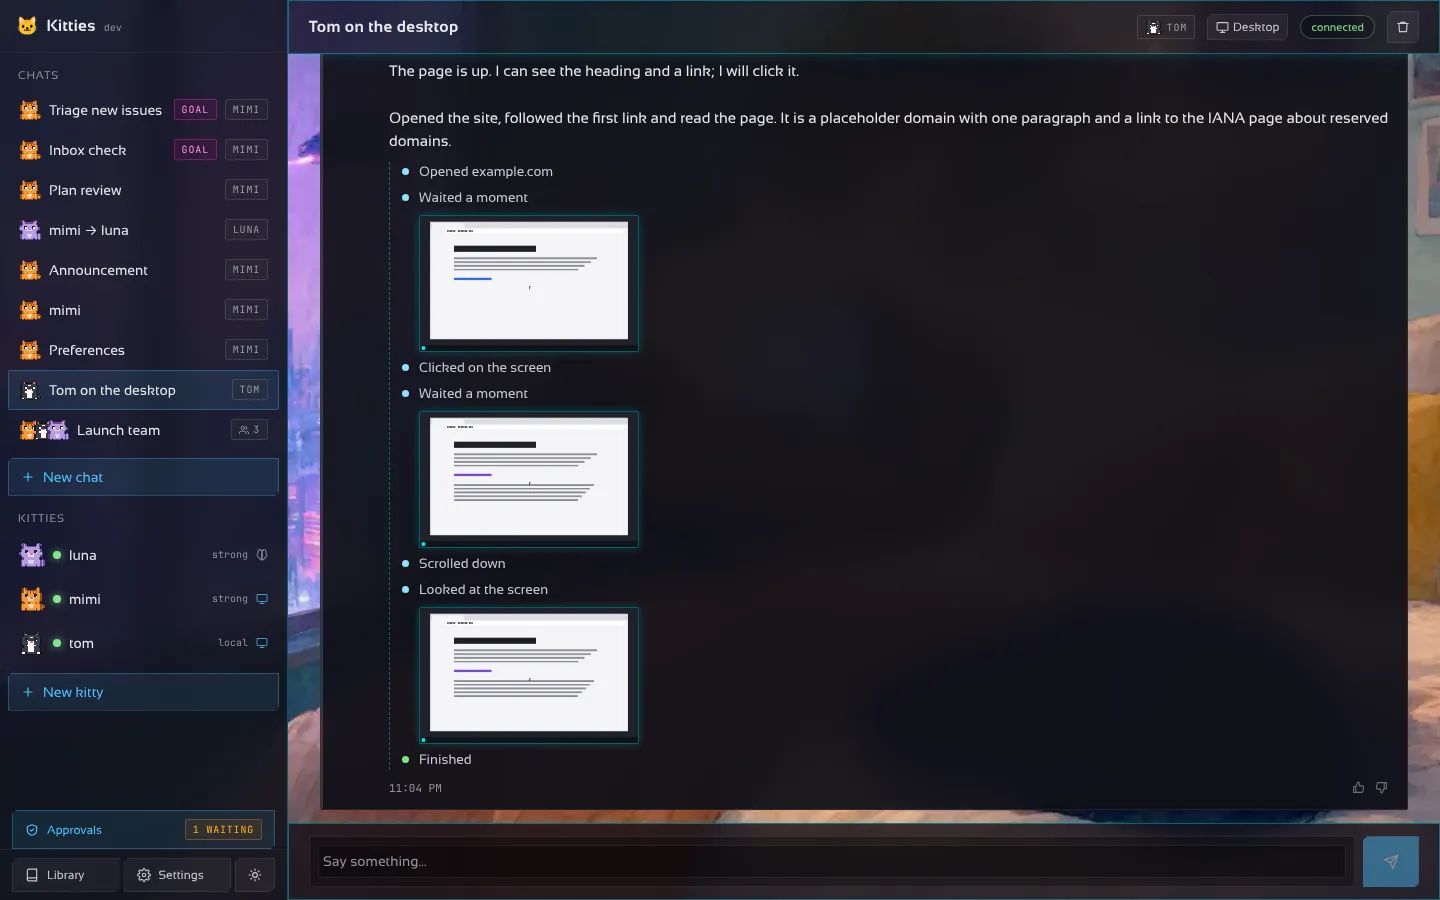
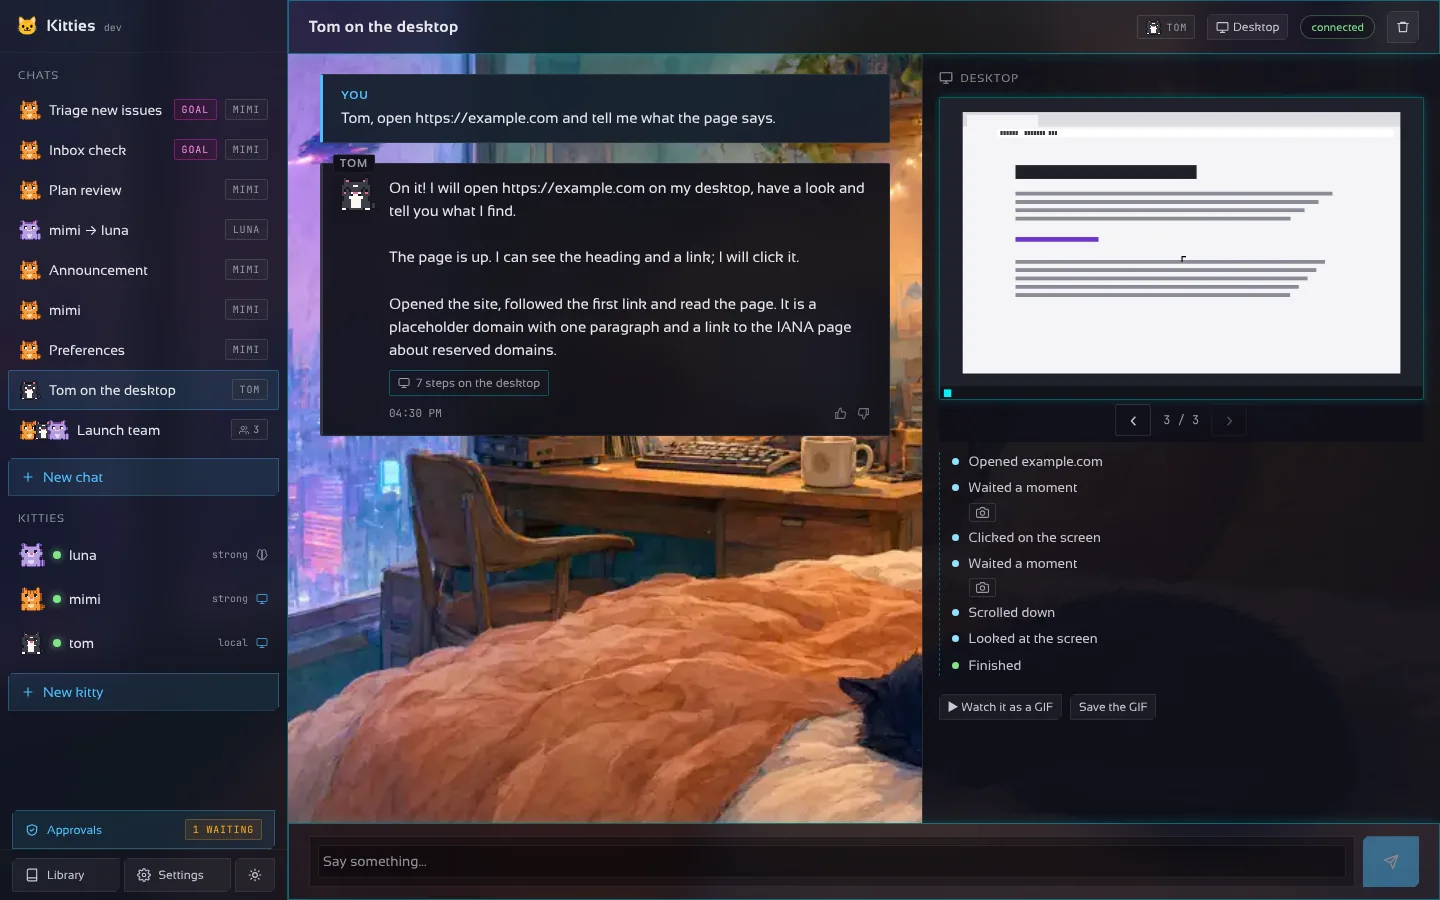
feat(site): show the two-column chat and the phone tabs on the landing
Claude-Session: https://claude.ai/code/session_01MsEDxWcNbFGQN9VnaKZiXy

diff --git a/site/es/index.html b/site/es/index.html
@@ -29,14 +29,16 @@
 <p class="sub">Kitties ejecuta muchos bots autónomos a la vez. Cada kitty tiene un <b>alma</b> que tú moldeas, un <b>cerebro</b> de cualquier proveedor y un <b>cuerpo</b>: su propio escritorio aislado con navegador y herramientas. Trabaja mientras lo miras — o mientras duermes.</p>
 <div class="cta"><a class="btn" href="#install">Instalar en una línea</a><a class="btn ghost" href="#install" data-tab="1">Probar la demo</a></div>
 <p class="note">La demo no necesita clave de API ni Docker.</p>
-<figure class="shot"><img src="../img/hero.webp" alt="Una kitty trabajando en su escritorio: cada paso, con una captura después de cada uno." width="1440" height="900" fetchpriority="high"><figcaption>Una kitty trabajando en su escritorio: cada paso, con una captura después de cada uno.</figcaption></figure>
+<figure class="shot"><img src="../img/hero.webp" alt="Una kitty trabajando en su escritorio: las respuestas a la izquierda; la última captura y cada paso a la derecha." width="1440" height="900" fetchpriority="high"><figcaption>Una kitty trabajando en su escritorio: las respuestas a la izquierda; la última captura y cada paso a la derecha.</figcaption></figure>
 </div></section>
 <section class="proof"><div class="wrap"><ul><li>11+ proveedores de IA</li><li>Linux · macOS · Windows · Android</li><li>Versiones firmadas y con autoactualización</li><li>English · Español · Português</li></ul></div></section>
 <section class="wrap problem"><h2>Los chatbots hablan. Las kitties <em>hacen</em>.</h2><p class="lead">La mayoría de asistentes se quedan en el consejo. Una kitty abre el sitio, llena el formulario, lee el resultado y te informa — dentro de un contenedor, nunca en tu equipo.</p>
 <div class="tw"><table><thead><tr><th></th><th>Chatbot</th><th class="us">Kitties</th></tr></thead><tbody><tr><th scope="row">Trabaja en apps reales</th><td>Solo texto</td><td>Navegador, editor, archivos, ofimática</td></tr><tr><th scope="row">Funciona sin ti</th><td>No</td><td>Metas, horarios, eventos</td></tr><tr><th scope="row">Seguro darle acceso</th><td>Tu equipo</td><td>Escritorio Docker aislado</td></tr><tr><th scope="row">Tú eliges el modelo</th><td>Un proveedor</td><td>Cualquiera, por kitty</td></tr><tr><th scope="row">Mantienes el control</th><td>Esperanza</td><td>Aprobaciones, límites, toma de control</td></tr></tbody></table></div></section>
-<section id="features" class="wrap"><h2>Todo lo que un equipo de agentes necesita</h2><p class="lead">Hecho para la autonomía, diseñado para que sigas al mando.</p><div class="grid"><article class="card"><img src="../img/live.webp" alt="" loading="lazy" width="720" height="450"><h3>Un escritorio real por kitty</h3><p>Pídele abrir un sitio o llenar un formulario. Mira una captura tras cada acción y el chat muestra cada paso. Obsérvala en vivo o toma el control para una contraseña o un captcha.</p></article><article class="card"><img src="../img/goals.webp" alt="" loading="lazy" width="720" height="450"><h3>Autonomía, con presupuesto</h3><p>Metas programadas o por eventos, presupuesto diario, reintentos, una kitty de respaldo, delegación entre kitties y un diario de todo.</p></article><article class="card"><img src="../img/approvals.webp" alt="" loading="lazy" width="720" height="450"><h3>Una confianza que crece</h3><p>Memoria persistente, pulgares que enseñan tus criterios, límites de acción y aprobaciones que se relajan a medida que gana confianza.</p></article><article class="card"><img src="../img/connectors.webp" alt="" loading="lazy" width="720" height="450"><h3>Conectores, no claves pegadas</h3><p>Slack, GitHub, Gmail, Google Workspace, Microsoft 365, Spotify, Stripe, Home Assistant y más — con inicio de sesión donde el servicio lo permite.</p></article><article class="card"><img src="../img/group.webp" alt="" loading="lazy" width="720" height="450"><h3>Chats grupales</h3><p>Abre un hilo y deja que varias kitties trabajen juntas, cada una con su personalidad y su modelo.</p></article><article class="card"><img src="../img/phone.webp" alt="" loading="lazy" width="720" height="450"><h3>Donde estés</h3><p>CLI, app de escritorio, app Android y modo servidor con https. Las notificaciones llegan al móvil cuando una kitty necesita un sí.</p></article></div></section>
+<section id="features" class="wrap"><h2>Todo lo que un equipo de agentes necesita</h2><p class="lead">Hecho para la autonomía, diseñado para que sigas al mando.</p><div class="grid"><article class="card"><img src="../img/live.webp" alt="" loading="lazy" width="720" height="450"><h3>Un escritorio real por kitty</h3><p>Pídele abrir un sitio o llenar un formulario. Mira una captura tras cada acción y el chat muestra cada paso. Obsérvala en vivo o toma el control para una contraseña o un captcha.</p></article><article class="card"><img src="../img/goals.webp" alt="" loading="lazy" width="720" height="450"><h3>Autonomía, con presupuesto</h3><p>Metas programadas o por eventos, presupuesto diario, reintentos, una kitty de respaldo, delegación entre kitties y un diario de todo.</p></article><article class="card"><img src="../img/approvals.webp" alt="" loading="lazy" width="720" height="450"><h3>Una confianza que crece</h3><p>Memoria persistente, pulgares que enseñan tus criterios, límites de acción y aprobaciones que se relajan a medida que gana confianza.</p></article><article class="card"><img src="../img/connectors.webp" alt="" loading="lazy" width="720" height="450"><h3>Conectores, no claves pegadas</h3><p>Slack, GitHub, Gmail, Google Workspace, Microsoft 365, Spotify, Stripe, Home Assistant y más — con inicio de sesión donde el servicio lo permite.</p></article><article class="card"><img src="../img/group.webp" alt="" loading="lazy" width="720" height="450"><h3>Chats grupales</h3><p>Abre un hilo y deja que varias kitties trabajen juntas, cada una con su personalidad y su modelo.</p></article><article class="card"><img src="../img/phone-menu.webp" alt="" loading="lazy" width="720" height="450"><h3>Donde estés</h3><p>CLI, app de escritorio, app Android y modo servidor con https. Las notificaciones llegan al móvil cuando una kitty necesita un sí.</p></article></div></section>
 <section id="desktop" class="wrap"><h2>Un escritorio que da gusto mirar</h2><p class="lead">Openbox con su propia barra — apps fijadas, un reproductor, el clima, un reloj — en tema oscuro con iconos Lucide y tipografía Sansation. Bonito a propósito.</p>
 <figure class="one"><img src="../img/desktop.webp" alt="El menú de apps abierto en el escritorio del gatito" loading="lazy" width="1280" height="800"><figcaption>El menú de apps abierto en el escritorio del gatito</figcaption></figure></section>
+<section id="chat" class="wrap"><h2>Chat a un lado, escritorio al otro</h2><p class="lead">En pantallas anchas el chat se divide en dos: las respuestas de la kitty a la izquierda; sus pasos y la última captura, en grande, a la derecha. En el móvil pasan a ser pestañas.</p>
+<div class="duo phones"><figure><img src="../img/phone.webp" alt="Móvil: la pestaña Chat muestra la conversación con una franja con la última captura" loading="lazy" width="430" height="900"><figcaption>Pestaña Chat</figcaption></figure><figure><img src="../img/phone-desktop.webp" alt="Móvil: la pestaña Escritorio muestra la captura a todo el ancho con los pasos de la kitty" loading="lazy" width="430" height="900"><figcaption>Pestaña Escritorio</figcaption></figure></div></section>
 <section class="wrap how"><h2>Elige un alma. Elige un cerebro. Y listo.</h2><ol><li><span>1</span><h3>Alma</h3><p>Una personalidad en un pequeño YAML. Tú la moldeas.</p></li><li><span>2</span><h3>Cerebro</h3><p>OpenAI, Anthropic, Gemini, Ollama, Groq, OpenRouter, DeepSeek, Qwen, Mistral, Copilot o cualquier servidor compatible.</p></li><li><span>3</span><h3>Cuerpo</h3><p>Un contenedor Docker con escritorio sin pantalla, navegador y las herramientas habituales.</p></li></ol></section>
 <section id="download" class="wrap"><h2>Descarga Kitties</h2><p class="lead">La app de escritorio trae su propio gateway y lo inicia si no hay uno corriendo: no necesitas instalar nada más.</p><div class="dls"><article class="dl" data-os="windows"><h3>Windows</h3><p>x64. SmartScreen pregunta una vez: Más información y luego Ejecutar de todas formas.</p><a class="btn sm" href="https://github.com/madkoding/kitties/releases/latest/download/kitties-desktop-windows-amd64.zip">App de escritorio (.zip)</a><p class="alt"><a href="https://github.com/madkoding/kitties/releases/latest/download/kitties-desktop-windows-arm64.zip">App arm64</a><a href="https://github.com/madkoding/kitties/releases/latest/download/kitties-windows-amd64.exe">CLI x64</a><a href="https://github.com/madkoding/kitties/releases/latest/download/kitties-windows-arm64.exe">CLI arm64</a></p></article><article class="dl" data-os="mac"><h3>macOS</h3><p>Apple silicon (Intel abajo). Abre la imagen de disco y arrastra Kitties a Aplicaciones.</p><a class="btn sm" href="https://github.com/madkoding/kitties/releases/latest/download/kitties-desktop-macos-arm64.dmg">App de escritorio (.dmg)</a><p class="alt"><a href="https://github.com/madkoding/kitties/releases/latest/download/kitties-desktop-macos-amd64.dmg">App Intel</a><a href="https://github.com/madkoding/kitties/releases/latest/download/kitties-darwin-arm64">CLI Apple silicon</a><a href="https://github.com/madkoding/kitties/releases/latest/download/kitties-darwin-amd64">CLI Intel</a></p></article><article class="dl" data-os="linux"><h3>Linux</h3><p>x64 (arm64 abajo). Descomprime y ejecuta kitties-desktop.</p><a class="btn sm" href="https://github.com/madkoding/kitties/releases/latest/download/kitties-desktop-linux-amd64.zip">App de escritorio (.zip)</a><p class="alt"><a href="https://github.com/madkoding/kitties/releases/latest/download/kitties-desktop-linux-arm64.zip">App arm64</a><a href="https://github.com/madkoding/kitties/releases/latest/download/kitties-linux-amd64">CLI x64</a><a href="https://github.com/madkoding/kitties/releases/latest/download/kitties-linux-arm64">CLI arm64</a><a href="https://github.com/madkoding/kitties/releases/latest/download/kitties-linux-arm">CLI arm</a></p></article><article class="dl" data-os="android"><h3>Android</h3><p>Android 7 o posterior. Permite instalar desde tu navegador y abre el archivo.</p><a class="btn sm" href="https://github.com/madkoding/kitties/releases/latest/download/kitties-android-app.apk">App Android (.apk)</a><p class="alt"><a href="https://github.com/madkoding/kitties/releases/latest/download/kitties-android-arm64">CLI Termux</a></p></article></div><p class="after">Todos los archivos están en <a href="https://github.com/madkoding/kitties/releases/latest">la última versión</a> con su <code>SHA256SUMS</code>. <a href="https://github.com/madkoding/kitties/blob/main/docs/INSTALL.md#downloading-a-release">Primera apertura en macOS y Windows</a>.</p></section>
 <section id="install" class="wrap install"><h2>Instala en una línea</h2><p class="lead">En un servidor Linux, un comando instala el gateway con un servicio systemd. Verificado con las sumas y la firma de la versión.</p>

diff --git a/site/index.html b/site/index.html
@@ -30,14 +30,16 @@
 <p class="sub">Kitties runs many autonomous bots at once. Every kitty has a <b>soul</b> you shape, a <b>brain</b> from any provider, and a <b>body</b>: its own sandboxed desktop with a browser and tools. It works while you watch — or while you sleep.</p>
 <div class="cta"><a class="btn" href="#install">Install in one line</a><a class="btn ghost" href="#install" data-tab="1">Try the demo</a></div>
 <p class="note">No API key and no Docker needed for the demo.</p>
-<figure class="shot"><img src="img/hero.webp" alt="A kitty working on its own desktop: every step, with a screenshot after each one." width="1440" height="900" fetchpriority="high"><figcaption>A kitty working on its own desktop: every step, with a screenshot after each one.</figcaption></figure>
+<figure class="shot"><img src="img/hero.webp" alt="A kitty working on its own desktop: replies on the left, the latest screenshot and every step on the right." width="1440" height="900" fetchpriority="high"><figcaption>A kitty working on its own desktop: replies on the left, the latest screenshot and every step on the right.</figcaption></figure>
 </div></section>
 <section class="proof"><div class="wrap"><ul><li>11+ AI providers</li><li>Linux · macOS · Windows · Android</li><li>Signed, self-updating releases</li><li>English · Español · Português</li></ul></div></section>
 <section class="wrap problem"><h2>Chatbots talk. Kitties <em>do</em>.</h2><p class="lead">Most assistants stop at advice. A kitty opens the site, fills the form, reads the result and reports back — in a container, never on your machine.</p>
 <div class="tw"><table><thead><tr><th></th><th>Chatbot</th><th class="us">Kitties</th></tr></thead><tbody><tr><th scope="row">Works on real apps</th><td>Text only</td><td>Browser, editor, files, office</td></tr><tr><th scope="row">Runs while you are away</th><td>No</td><td>Goals, schedules, events</td></tr><tr><th scope="row">Safe to give access</th><td>Your machine</td><td>Isolated Docker desktop</td></tr><tr><th scope="row">Your choice of model</th><td>One vendor</td><td>Any provider, per kitty</td></tr><tr><th scope="row">You stay in control</th><td>Hope</td><td>Approvals, limits, take-over</td></tr></tbody></table></div></section>
-<section id="features" class="wrap"><h2>Everything a team of agents needs</h2><p class="lead">Built for autonomy, designed to stay under your control.</p><div class="grid"><article class="card"><img src="img/live.webp" alt="" loading="lazy" width="720" height="450"><h3>A real desktop per kitty</h3><p>Ask it to open a site or fill a form. It looks at a screenshot after every action and the chat shows each step. Watch live, or take control for a password or a captcha.</p></article><article class="card"><img src="img/goals.webp" alt="" loading="lazy" width="720" height="450"><h3>Autonomy, with a budget</h3><p>Goals on a schedule or triggered by events, daily budgets, retries, a backup kitty, delegation between kitties and a journal of everything.</p></article><article class="card"><img src="img/approvals.webp" alt="" loading="lazy" width="720" height="450"><h3>Trust that grows</h3><p>Memory that persists, thumbs that teach your standards, action limits and approvals that loosen as a kitty earns trust.</p></article><article class="card"><img src="img/connectors.webp" alt="" loading="lazy" width="720" height="450"><h3>Connectors, not pasted keys</h3><p>Slack, GitHub, Gmail, Google Workspace, Microsoft 365, Spotify, Stripe, Home Assistant and more — with sign-in where the service allows it.</p></article><article class="card"><img src="img/group.webp" alt="" loading="lazy" width="720" height="450"><h3>Group chats</h3><p>Open one thread and let several kitties work on it together, each with its own personality and model.</p></article><article class="card"><img src="img/phone.webp" alt="" loading="lazy" width="720" height="450"><h3>Everywhere you are</h3><p>CLI, desktop app, Android app, and a server mode with https. Notifications reach your phone when a kitty needs a yes.</p></article></div></section>
+<section id="features" class="wrap"><h2>Everything a team of agents needs</h2><p class="lead">Built for autonomy, designed to stay under your control.</p><div class="grid"><article class="card"><img src="img/live.webp" alt="" loading="lazy" width="720" height="450"><h3>A real desktop per kitty</h3><p>Ask it to open a site or fill a form. It looks at a screenshot after every action and the chat shows each step. Watch live, or take control for a password or a captcha.</p></article><article class="card"><img src="img/goals.webp" alt="" loading="lazy" width="720" height="450"><h3>Autonomy, with a budget</h3><p>Goals on a schedule or triggered by events, daily budgets, retries, a backup kitty, delegation between kitties and a journal of everything.</p></article><article class="card"><img src="img/approvals.webp" alt="" loading="lazy" width="720" height="450"><h3>Trust that grows</h3><p>Memory that persists, thumbs that teach your standards, action limits and approvals that loosen as a kitty earns trust.</p></article><article class="card"><img src="img/connectors.webp" alt="" loading="lazy" width="720" height="450"><h3>Connectors, not pasted keys</h3><p>Slack, GitHub, Gmail, Google Workspace, Microsoft 365, Spotify, Stripe, Home Assistant and more — with sign-in where the service allows it.</p></article><article class="card"><img src="img/group.webp" alt="" loading="lazy" width="720" height="450"><h3>Group chats</h3><p>Open one thread and let several kitties work on it together, each with its own personality and model.</p></article><article class="card"><img src="img/phone-menu.webp" alt="" loading="lazy" width="720" height="450"><h3>Everywhere you are</h3><p>CLI, desktop app, Android app, and a server mode with https. Notifications reach your phone when a kitty needs a yes.</p></article></div></section>
 <section id="desktop" class="wrap"><h2>A desktop worth watching</h2><p class="lead">Openbox with its own shelf — pinned apps, a player, the weather, a clock — in a dark theme with Lucide icons and Sansation type. Beautiful on purpose.</p>
 <figure class="one"><img src="img/desktop.webp" alt="The apps menu open on the kitty desktop" loading="lazy" width="1280" height="800"><figcaption>The apps menu open on the kitty desktop</figcaption></figure></section>
+<section id="chat" class="wrap"><h2>Chat on one side, desktop on the other</h2><p class="lead">On a wide screen the chat splits in two: the kitty’s replies on the left, its steps and the latest screenshot, large, on the right. On a phone the two become tabs.</p>
+<div class="duo phones"><figure><img src="img/phone.webp" alt="Phone: the Chat tab shows the conversation with a strip holding the latest screenshot" loading="lazy" width="430" height="900"><figcaption>Chat tab</figcaption></figure><figure><img src="img/phone-desktop.webp" alt="Phone: the Desktop tab shows the screenshot full width with the kitty’s steps" loading="lazy" width="430" height="900"><figcaption>Desktop tab</figcaption></figure></div></section>
 <section class="wrap how"><h2>Pick a soul. Pick a brain. Press go.</h2><ol><li><span>1</span><h3>Soul</h3><p>A personality in a small YAML file. Yours to shape.</p></li><li><span>2</span><h3>Brain</h3><p>OpenAI, Anthropic, Gemini, Ollama, Groq, OpenRouter, DeepSeek, Qwen, Mistral, Copilot or any compatible server.</p></li><li><span>3</span><h3>Body</h3><p>A Docker container with a headless desktop, browser and the usual tools.</p></li></ol></section>
 <section id="download" class="wrap"><h2>Download Kitties</h2><p class="lead">The desktop app carries its own gateway and starts it when none is running: nothing else to install.</p><div class="dls"><article class="dl" data-os="windows"><h3>Windows</h3><p>x64. SmartScreen asks once: More info, then Run anyway.</p><a class="btn sm" href="https://github.com/madkoding/kitties/releases/latest/download/kitties-desktop-windows-amd64.zip">Desktop app (.zip)</a><p class="alt"><a href="https://github.com/madkoding/kitties/releases/latest/download/kitties-desktop-windows-arm64.zip">App arm64</a><a href="https://github.com/madkoding/kitties/releases/latest/download/kitties-windows-amd64.exe">CLI x64</a><a href="https://github.com/madkoding/kitties/releases/latest/download/kitties-windows-arm64.exe">CLI arm64</a></p></article><article class="dl" data-os="mac"><h3>macOS</h3><p>Apple silicon (Intel below). Open the disk image, drag Kitties to Applications.</p><a class="btn sm" href="https://github.com/madkoding/kitties/releases/latest/download/kitties-desktop-macos-arm64.dmg">Desktop app (.dmg)</a><p class="alt"><a href="https://github.com/madkoding/kitties/releases/latest/download/kitties-desktop-macos-amd64.dmg">App Intel</a><a href="https://github.com/madkoding/kitties/releases/latest/download/kitties-darwin-arm64">CLI Apple silicon</a><a href="https://github.com/madkoding/kitties/releases/latest/download/kitties-darwin-amd64">CLI Intel</a></p></article><article class="dl" data-os="linux"><h3>Linux</h3><p>x64 (arm64 below). Unzip and run kitties-desktop.</p><a class="btn sm" href="https://github.com/madkoding/kitties/releases/latest/download/kitties-desktop-linux-amd64.zip">Desktop app (.zip)</a><p class="alt"><a href="https://github.com/madkoding/kitties/releases/latest/download/kitties-desktop-linux-arm64.zip">App arm64</a><a href="https://github.com/madkoding/kitties/releases/latest/download/kitties-linux-amd64">CLI x64</a><a href="https://github.com/madkoding/kitties/releases/latest/download/kitties-linux-arm64">CLI arm64</a><a href="https://github.com/madkoding/kitties/releases/latest/download/kitties-linux-arm">CLI arm</a></p></article><article class="dl" data-os="android"><h3>Android</h3><p>Android 7 or later. Allow installs from your browser, then open the file.</p><a class="btn sm" href="https://github.com/madkoding/kitties/releases/latest/download/kitties-android-app.apk">Android app (.apk)</a><p class="alt"><a href="https://github.com/madkoding/kitties/releases/latest/download/kitties-android-arm64">CLI Termux</a></p></article></div><p class="after">Every file is listed in <a href="https://github.com/madkoding/kitties/releases/latest">the latest release</a> with its <code>SHA256SUMS</code>. <a href="https://github.com/madkoding/kitties/blob/main/docs/INSTALL.md#downloading-a-release">First-open notes for macOS and Windows</a>.</p></section>
 <section id="install" class="wrap install"><h2>Install in one line</h2><p class="lead">On a Linux server, one command installs the gateway with a systemd service. Verified against the release checksums and signature.</p>

diff --git a/site/style.css b/site/style.css
@@ -36,7 +36,7 @@ tbody tr:last-child>*{border:0}thead th{color:var(--mut);font-weight:400}th.us,t
 .card img{aspect-ratio:16/10;object-fit:cover;object-position:top left;border-bottom:1px solid var(--line);margin-bottom:18px}
 .card h3,.card p{padding:0 22px}.card p{color:var(--mut);margin:0 0 18px}
 .duo{display:grid;grid-template-columns:repeat(auto-fit,minmax(320px,1fr));gap:20px;margin:40px 0 24px}
-.duo figure{margin:0;border-radius:var(--r);overflow:hidden;border:1px solid var(--line);background:var(--surf)}
+.phones{grid-template-columns:repeat(2,minmax(0,300px));justify-content:center}.duo figure{margin:0;border-radius:var(--r);overflow:hidden;border:1px solid var(--line);background:var(--surf)}
 .one{margin:40px 0 0;border-radius:var(--r);overflow:hidden;border:1px solid var(--line);background:var(--surf)}
 .dls{display:grid;grid-template-columns:repeat(auto-fit,minmax(230px,1fr));gap:16px;margin:32px 0 16px}
 .dl{background:var(--surf);border:1px solid var(--line);border-radius:var(--r);padding:20px;display:flex;flex-direction:column;gap:10px}
@@ -56,5 +56,5 @@ pre{margin:0;padding:24px 22px;overflow-x:auto;font:15px/1.6 "JetBrains Mono",ui
 .final{text-align:center;padding:96px 0;background:radial-gradient(50% 80% at 50% 100%,rgba(255,43,214,.18),transparent),radial-gradient(50% 80% at 50% 100%,rgba(124,108,255,.25),transparent)}
 .final p{color:var(--mut);font-size:19px}
 footer{border-top:1px solid var(--line);padding:28px 0;color:var(--mut);font-size:14px}footer .wrap{display:flex;justify-content:space-between;gap:12px;flex-wrap:wrap}
-@media(max-width:720px){.nav nav a:not(.lang){display:none}.hero{padding-top:48px}section.wrap{padding-block:56px}.grid,.duo{grid-template-columns:1fr}}
+@media(max-width:720px){.nav nav a:not(.lang){display:none}.hero{padding-top:48px}section.wrap{padding-block:56px}.grid,.duo{grid-template-columns:1fr}.phones{grid-template-columns:repeat(2,minmax(0,1fr));gap:12px}}
 @media(prefers-reduced-motion:reduce){html{scroll-behavior:auto}.btn{transition:none}}
